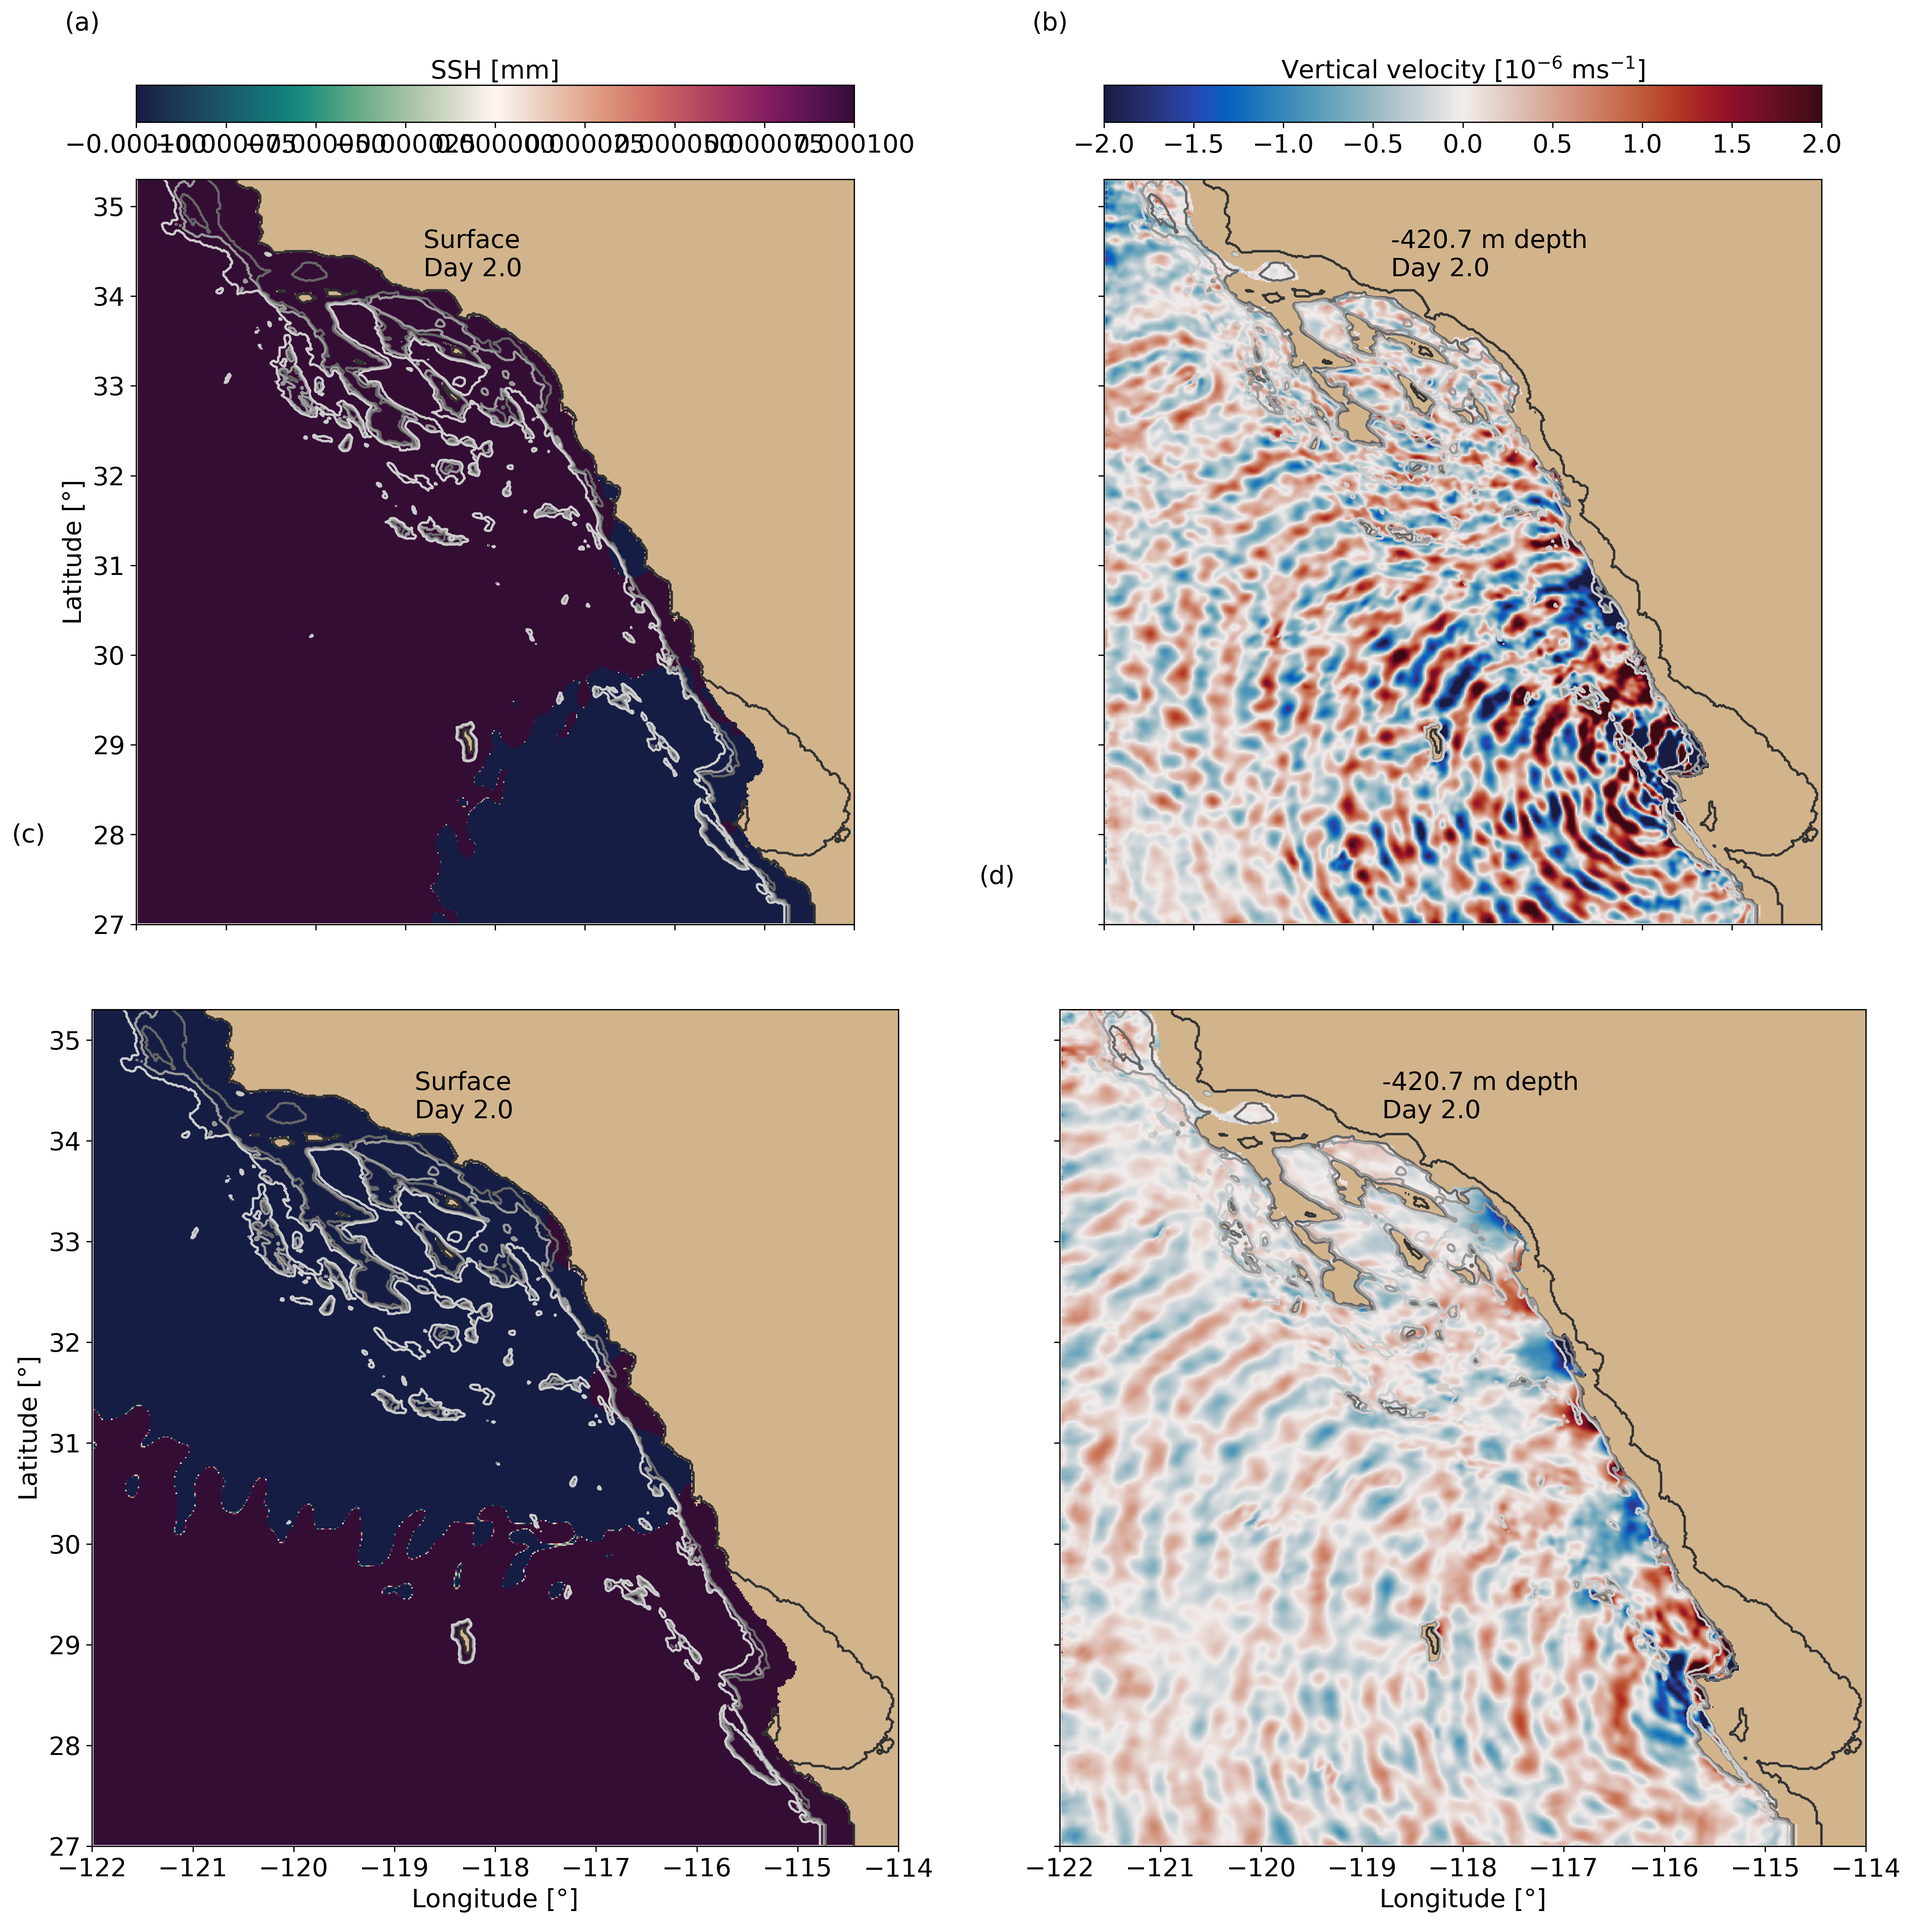
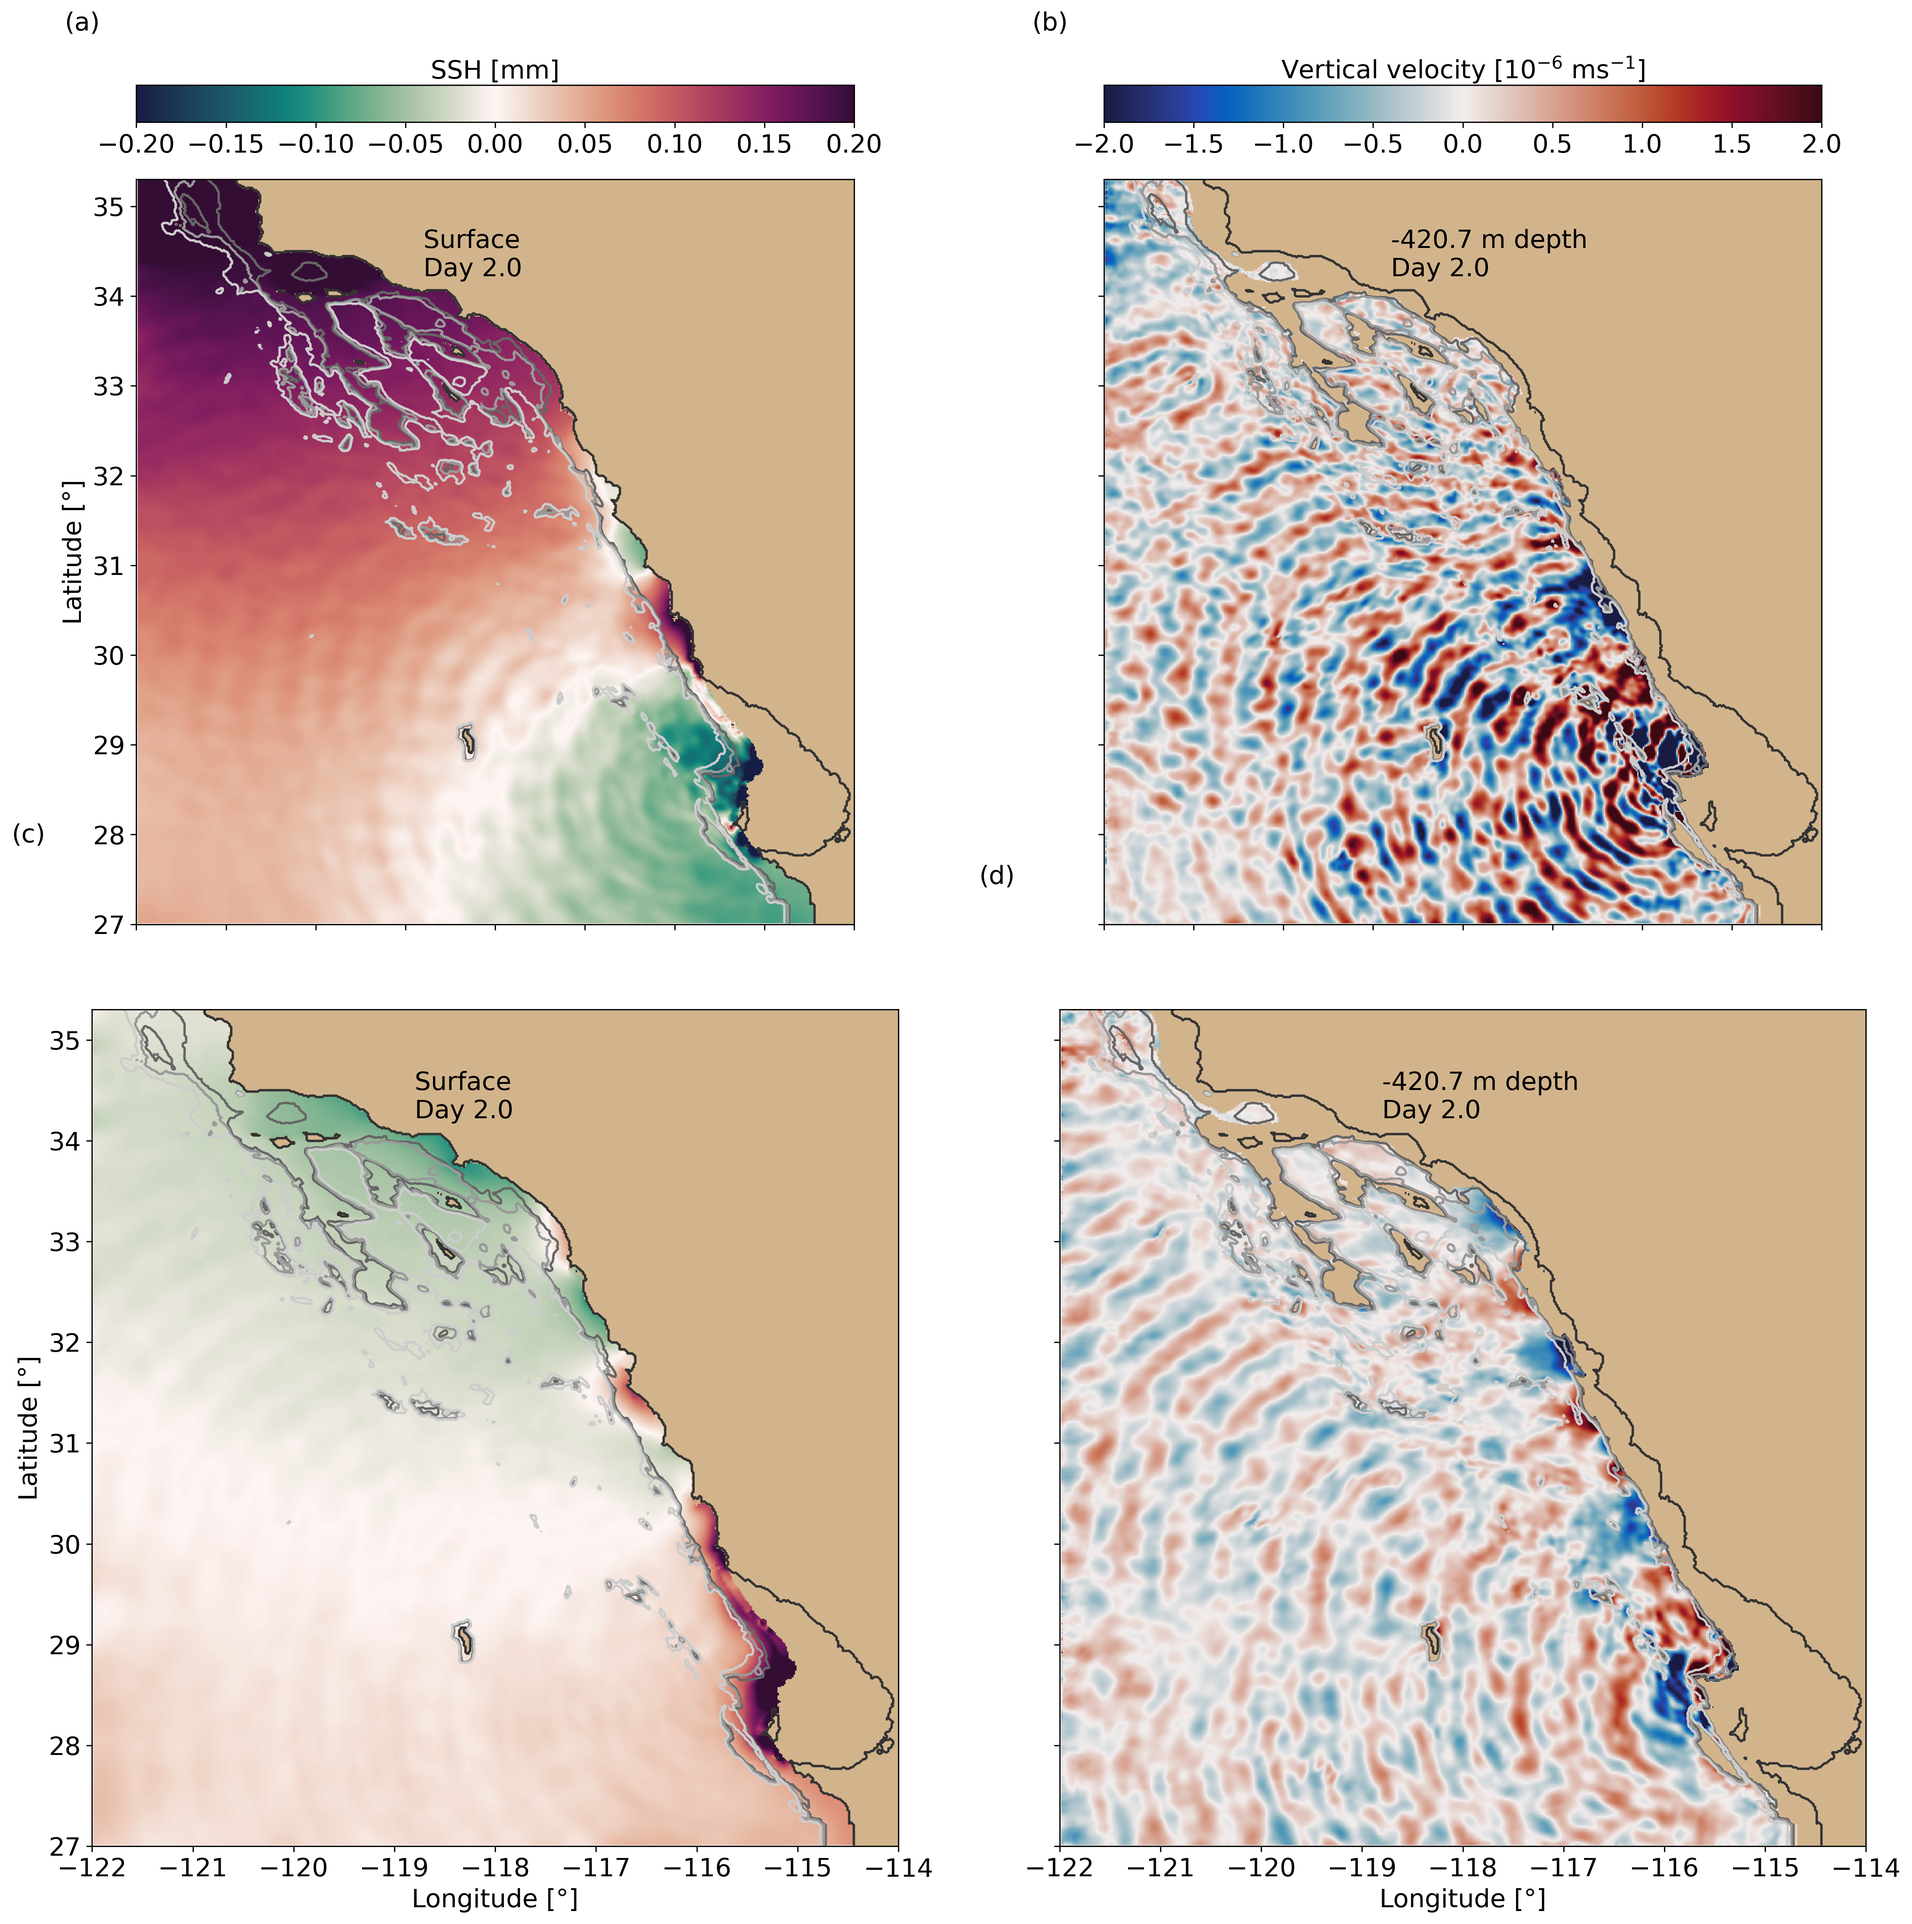
lastWave

Changed region(s): [[0.0311, 0.1245, 0.4669, 0.9651], [0.2801, 0.0623, 0.4669, 0.0934], [0.0623, 0.0623, 0.249, 0.0934]]

diff --git a/Scripts/Fig2WavesArticle.py b/Scripts/Fig2WavesArticle.py
@@ -8,7 +8,7 @@ import pylab as pl
 
 from SVBfunc import haversine
 
-coast = 'smooth'
+coast = 'original'
 
 i=0
 varname='dynVars'
